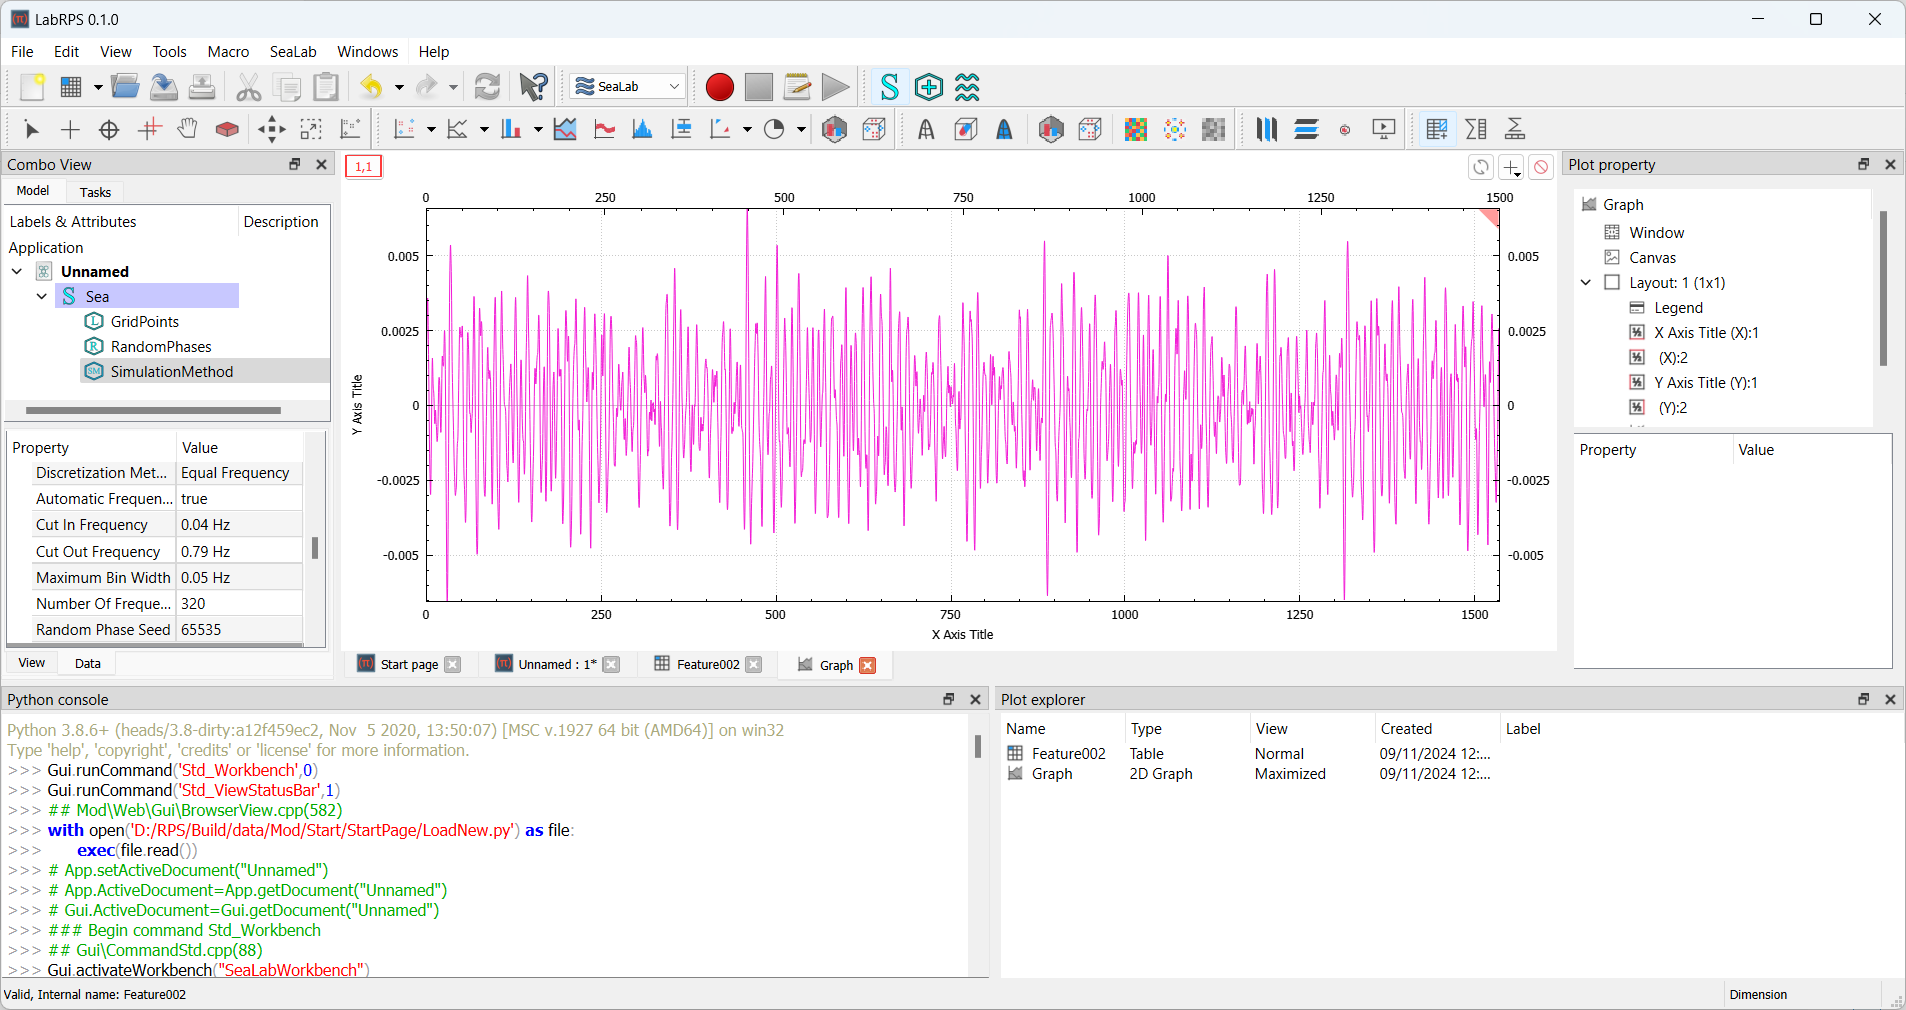
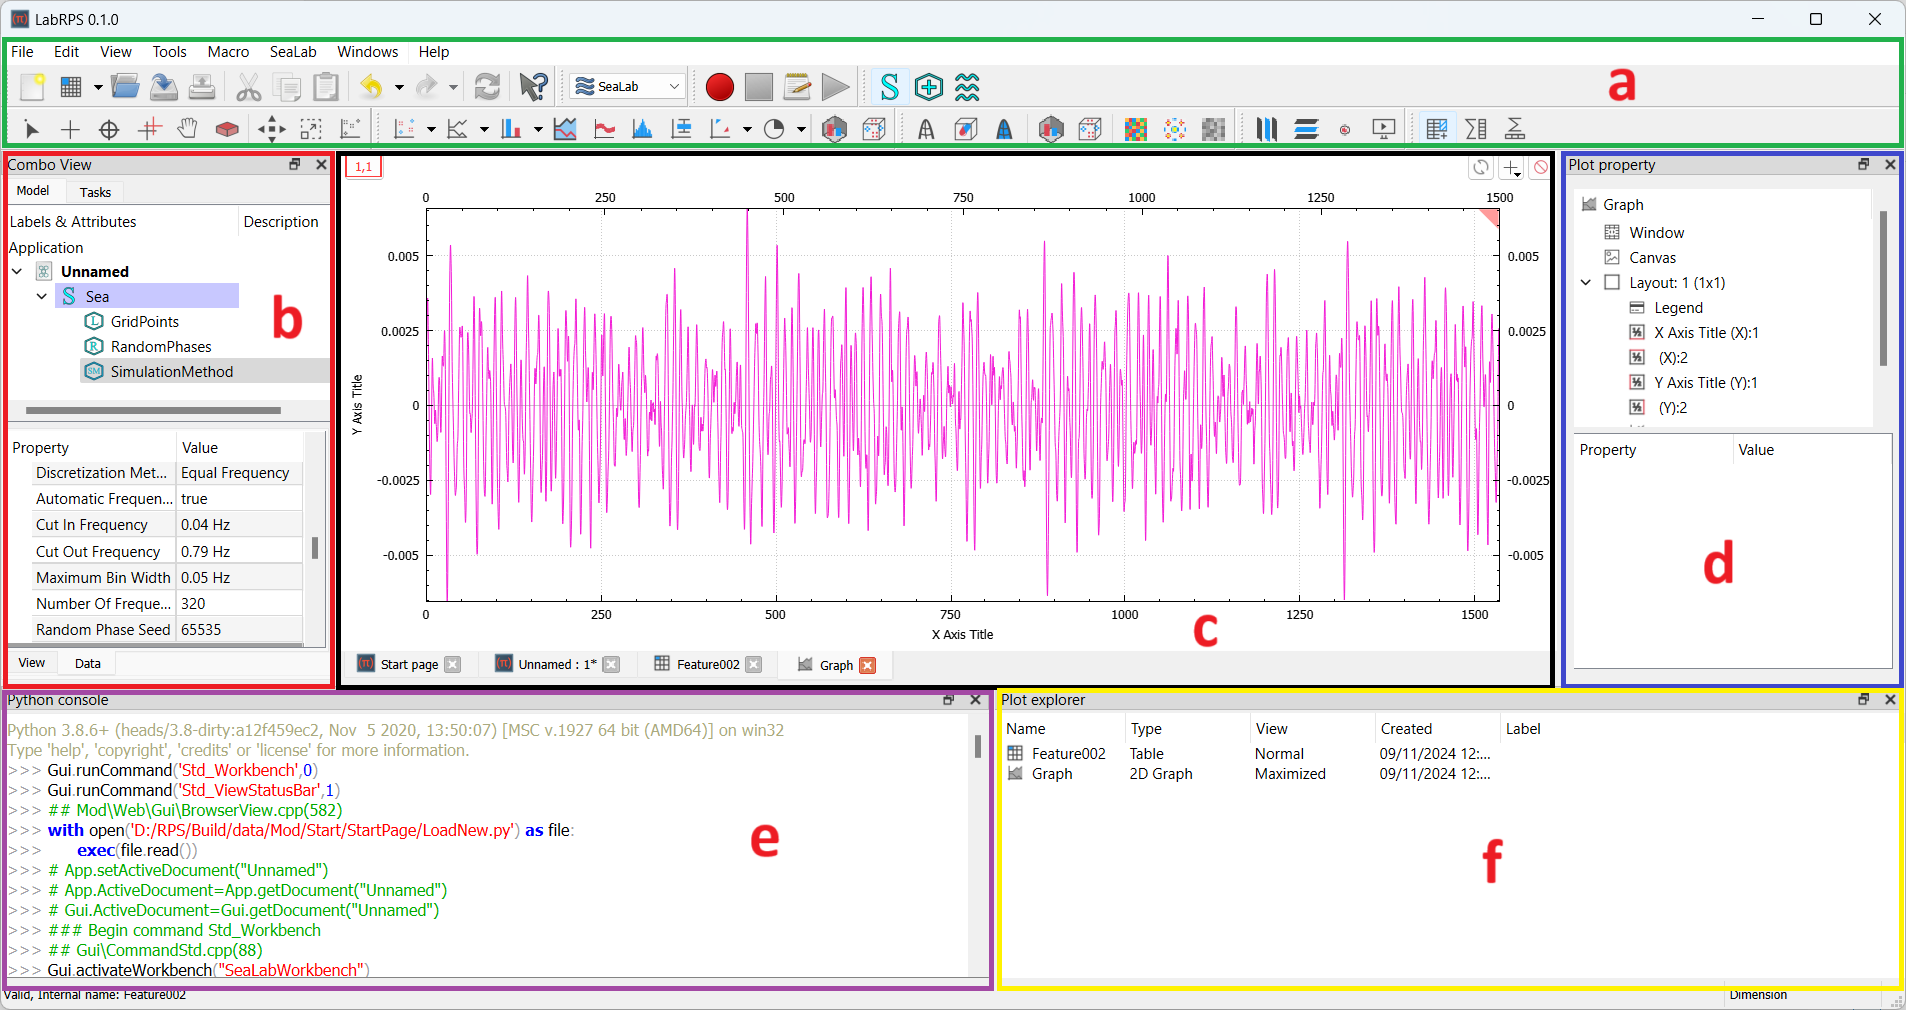
joss paper updated

diff --git a/paper/paper.md b/paper/paper.md
@@ -58,15 +58,15 @@ LabRPS is primarily intended to assist researchers in this field to quickly impl
 
 The tool is highly modular and seamlessly integrates with an advanced data visualizer, enabling the creation of high-quality 2D and 3D visualizations for simulation results, as well as data imported from files, manually entered, or derived from formulas. These data visualizations are optimized for academic publications, empowering users to effectively communicate their findings with precision and clarity. Figure 1 displays the graphical user interface of LabRPS.
 
-![LabRPS Interface\label{fig:figure1}](Figures/Figure1.png)
+![LabRPS Interface: (a) The toolbar and menu area that allows users to invoke various commands, (b) the combo view, comprising the tree view, task panel, and property editor, (c) the main view area, featuring multiple tabbed windows, (d) the plot editor view, enabling users to edit plots, (e) the  Python console, running an instance of the Python interpreter for creating and modifying objects and their properties, (f) the plot explorer, which lists all created plots..\label{fig:figure1}](Figures/Figure1.png)
 
 # 1. Statement of Need
 
 Most of the problems that engineers, and scientists face involve random phenomena or randomness which is the lack of predictability. In many situations, it is desired to numerically represent those random phenomena. For example: (a) numerical correlated stochastic wind velocity is required for the buffeting analysis of flexible long span cable supported bridges, (b) boundary layer turbulence is required for the analysis of panel vibrations of aircraft and submarines, (c) ocean waves need to be numerically represented for the analysis of ship oscillations, (d) randomness in material must be well represented for the analysis of the effect of randomness in geometrical configuration of structural component due to fabrication errors on the vibration and buckling eigenvalues, (e) numerical representation of random surface roughness of airport run-way is required for the analysis of aircraft vibration caused by the roughness.
 
-Currently, there are several methods available to numerically represent those random phenomena. Most of these methods are based on the Monte Carlo simulation [@Spanos_Monte_1998; @Kareem_Numerical_2008]  which can be achieved by frequency domain approaches such as linear filtering [@Yousun_ARMA_1990; @George_AutoRegressive_1988; @MIGNOLET_ARMA_1987] approaches or spectral representation method [@Lizhong_Adeterministic_2004; @Yousun_Simulation_1991; @Shinozuka_Digital_1972; @Mircea_Onthespectral_1993; @Koffi_Anefficient_2016; @Koffi_Improved_2018; @Koffi_Simulation_2017]. From the previous studies, the complexity associated to these methods are undoubtable. The application of these methods generally results in a time-consuming task due to the significantly large number of processes that is simulated. This can even lead to a higher demand in terms of computer memory. In the recent years, effort has been made to provide these issues with suitable solutions. However, the solutions involve complex physics and mathematical tools which make their implementations in a computation program very difficult and time consuming.
+Currently, there are several methods available to numerically represent those random phenomena. Most of these methods are based on the Monte Carlo simulation [@Spanos_Monte_1998; @Kareem_Numerical_2008]  which can be achieved by frequency domain approaches such as linear filtering [@Yousun_ARMA_1990; @George_AutoRegressive_1988; @MIGNOLET_ARMA_1987] approaches or spectral representation method [@Lizhong_Adeterministic_2004; @Yousun_Simulation_1991; @Shinozuka_Digital_1972; @Mircea_Onthespectral_1993; @Koffi_Anefficient_2016; @Koffi_Improved_2018; @Koffi_Simulation_2017]. From the previous studies, the complexity associated to these methods are undoubtable. Application results in a time-consuming task due to the significantly large number of simulated processes. This can even lead to a higher demand in terms of computer memory. In the recent years, effort has been made to provide these issues with suitable solutions. However, the solutions involve complex physics and mathematical tools which make their implementations in a computation program very difficult and time consuming.
 
-It has been noticed that computer programs that offer suitable features for the computation works related to the numerical simulation of random phenomena are very few. In most cases, the simulation approach is implemented in the commercial software such as MATLAB which is a very powerful tool that offers number of solutions in numerical computation. The numerical simulation of random phenomena using Matlab requires some programming skills. It may be time consuming to be involved with programming tasks each time a simulation is required. We observed that researchers, who often build upon the works of other researchers during the study of new simulation approaches, frequently invest significant time and effort merely to replicate the existing computational results. Reproducing computational research presents challenges in this field. A well-designed computer program that makes scientific computations reproducible, storable and accessible will be of a big benefit. A program that helps researchers and engineers to implement quickly new simulation approaches without having to implement or to understand the programming background of the existing simulation approaches is needed. To address these problems, we developed LabRPS, a plugin-based system designed to facilitate the implementation, storage, and access of simulation algorithm (source codes and binaries) in order to accelerate the development of new simulation algorithms in this field. Additionally, LabRPS features an intuitive user interface that enables users to numerically simulate random phenomena without the need for coding.
+It has been noticed that computer programs that offer suitable features for the computation works related to the numerical simulation of random phenomena are very few. In most cases, the simulation approach is implemented in the commercial software such as MATLAB which is a very powerful tool that offers number of solutions in numerical computation. The numerical simulation of random phenomena using Matlab requires some programming skills. It may be time consuming to be involved with programming tasks each time a simulation is required. We observed that researchers, who often build upon the works of other researchers during the study of new simulation approaches, frequently invest significant time and effort merely to replicate the existing computational results. Reproducing computational research presents challenges in this field. A well-designed computer program that makes scientific computations reproducible, storable and accessible will be of a big benefit. A program that helps researchers and engineers to implement quickly new simulation approaches without having to implement or to understand the programming background of the existing simulation approaches is needed. To address these problems, we have developed LabRPS, a plugin-based system designed to facilitate the implementation, storage, and access of simulation algorithm (source codes and binaries) in order to accelerate the development of new simulation algorithms in this field. Additionally, LabRPS features an intuitive user interface that enables users to numerically simulate random phenomena without the need for coding.
 
 # 2. Programming Language
 
@@ -80,7 +80,7 @@ In LabRPS, a Workbench is a set of tools, features, and functions that are organ
 - **[SeismicLab Workbench:](https://wiki.labrps.com/SeismicLab_Workbench)** For the simulation of seismic ground motion
 - **[SeaLab Workbench:](https://wiki.labrps.com/SeaLab_Workbench)** Enables users to simulate random sea surface elevation
 
-By switching between workbenches, users can tackle different aspects of a simulation more effectively, providing a tailored and efficient workflow for diverse simulation tasks.
+By switching between workbenches, users can tackle different aspects of a simulation more effectively, providing a tailored and efficient workflow for diverse simulation tasks, etc.
 
 # 4. Plugin System 
 
